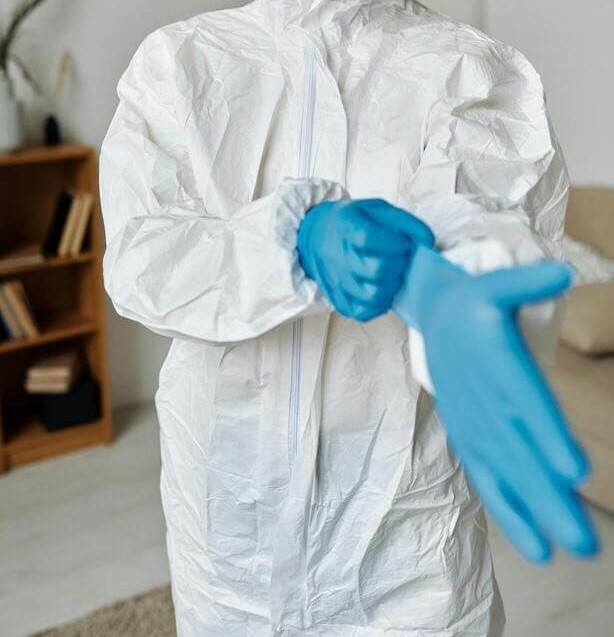
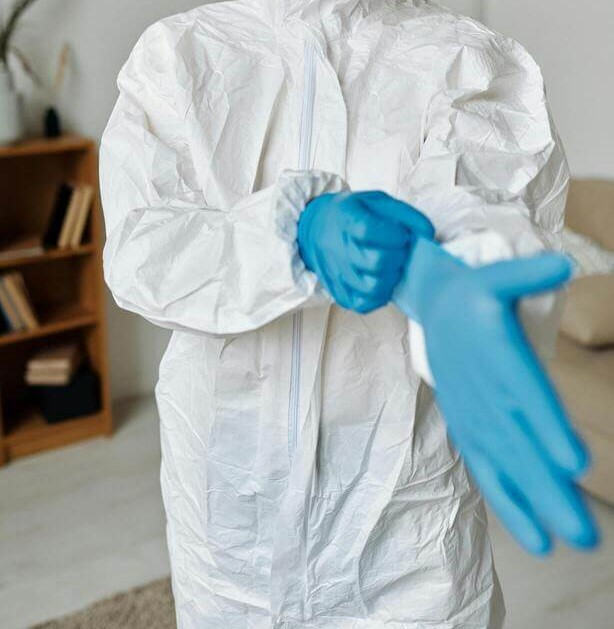
..

diff --git a/assets/js/service-data.js b/assets/js/service-data.js
@@ -262,7 +262,7 @@ const services = [
     description:
       "تنظيف وتعقيم الحمامات بشكل احترافي مع القضاء على البكتيريا والجراثيم وإزالة الترسبات. نستخدم مواد تنظيف قوية وآمنة لضمان حمام نظيف ومعقم.",
     image:
-       "assets/images/bathroom.jpeg",
+       "assets/images/bathroom.webp",
     features: [
       "تنظيف المراحيض والأحواض",
       "إزالة الترسبات الكلسية",
